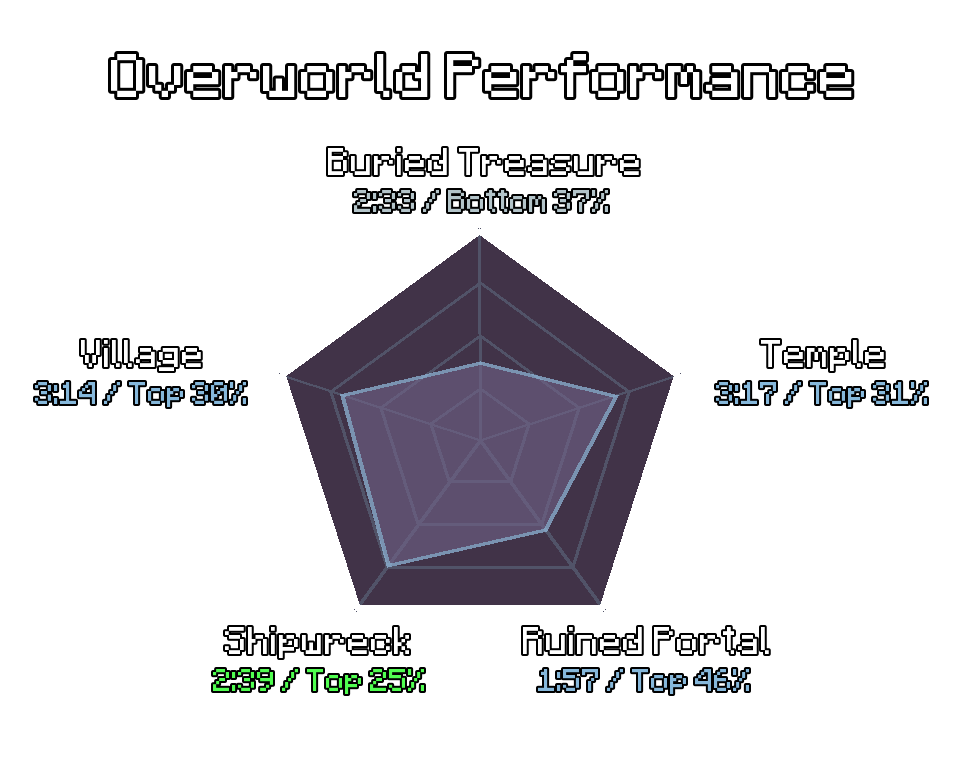
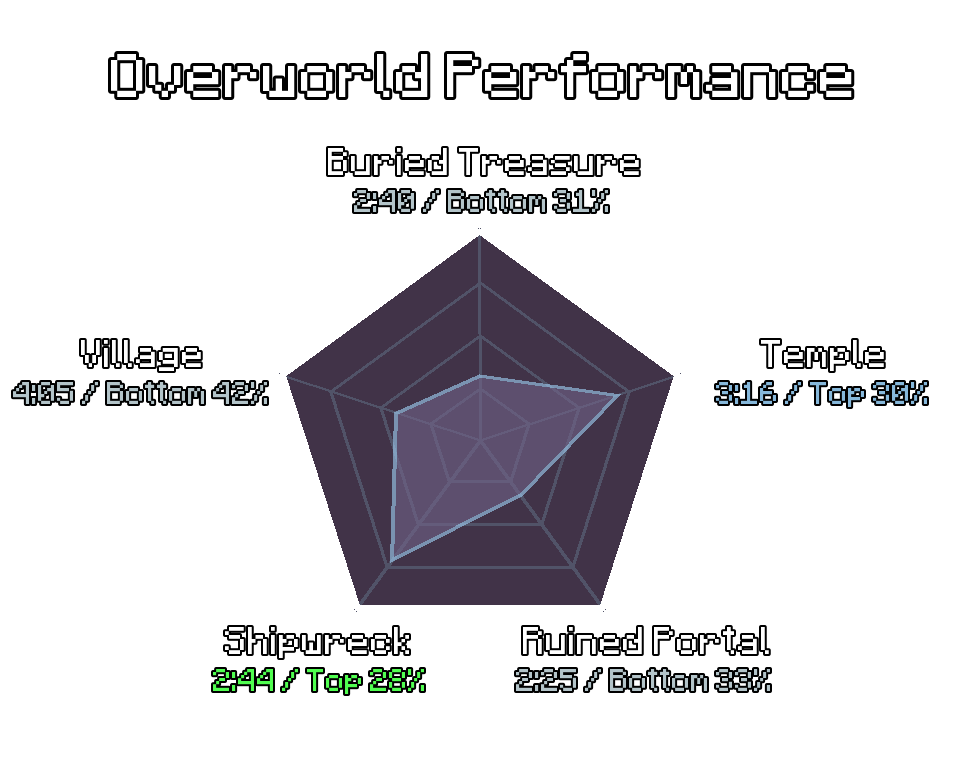
I think it works?

diff --git a/src/gen_functions/games.py b/src/gen_functions/games.py
@@ -128,15 +128,18 @@ async def get_detailed_matches(player_response, name, uuid, min_comps, target_ga
     while s >= get_season() - 1:
         response = requests.get(f"https://mcsrranked.com/api/users/{name}/matches?page={i}&season={s}&count=50&type=2&excludedecay", headers=headers, timeout=10).json()["data"]
 
+        games_left = target_games-num_games
+        if games_left <= 49 and len(response) > games_left:
+            response = response[0:games_left]
+
         then = datetime.now()
         matches = await asyncio.gather(*[get_match_details(match["id"]) for match in response])
-        detailed_matches += list(chain.from_iterable(matches))
+        detailed_matches += matches
         num_games = len(detailed_matches)
         split(then, f"{num_games} games")
         if [] in matches:
             i = 0
             s -= 1
-
 
         if num_games >= target_games:
             return detailed_matches

diff --git a/src/commands/analysis.py b/src/commands/analysis.py
@@ -19,7 +19,7 @@ def main(response):
     ow_polygon = Image.new("RGB", (400, 400), "#313338")
 
     then = datetime.now()
-    detailed_matches = asyncio.run(games.get_detailed_matches(response, name, uuid, 30, 100))
+    detailed_matches = asyncio.run(games.get_detailed_matches(response, name, uuid, 30, 130))
     if detailed_matches in (-1, -2):
         return detailed_matches
     then = splits(then, 0)
